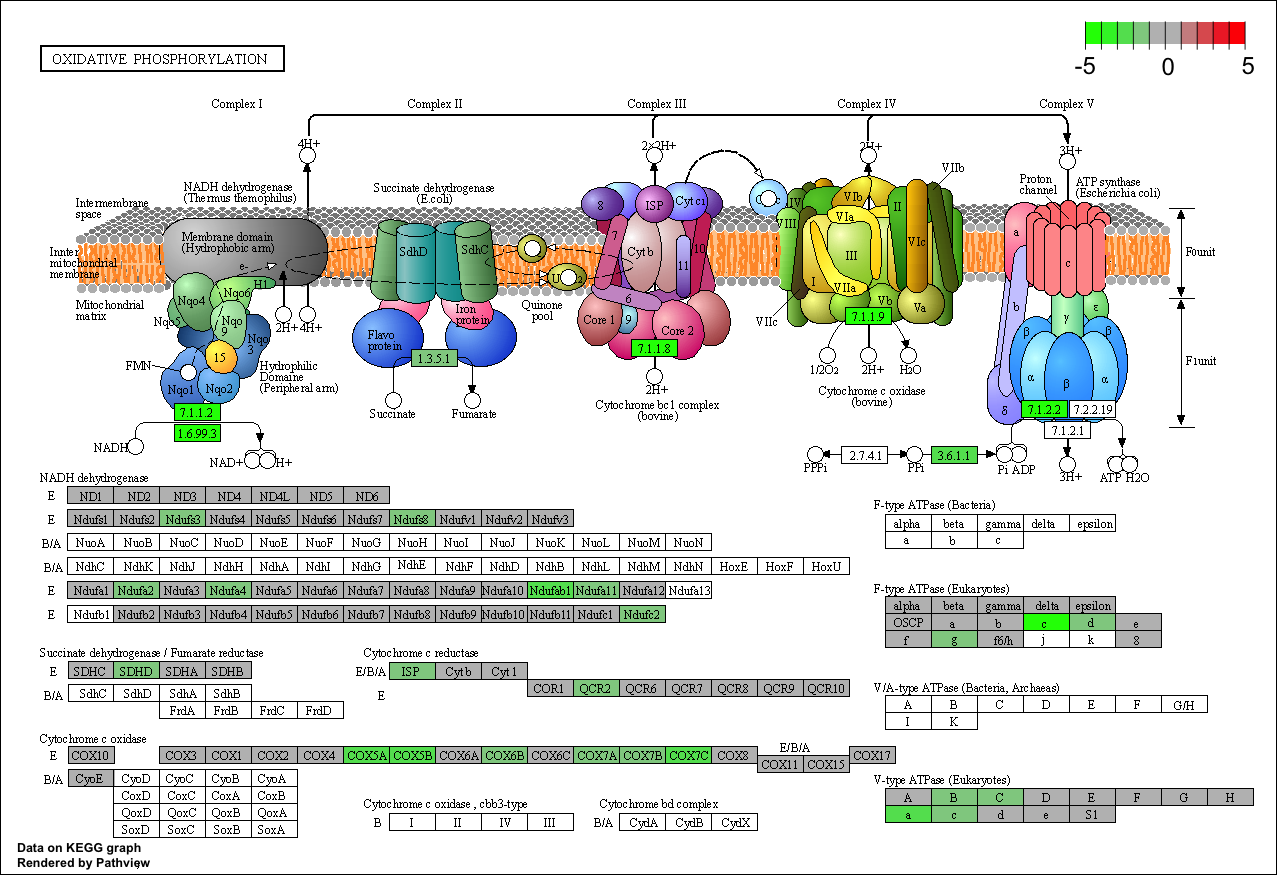
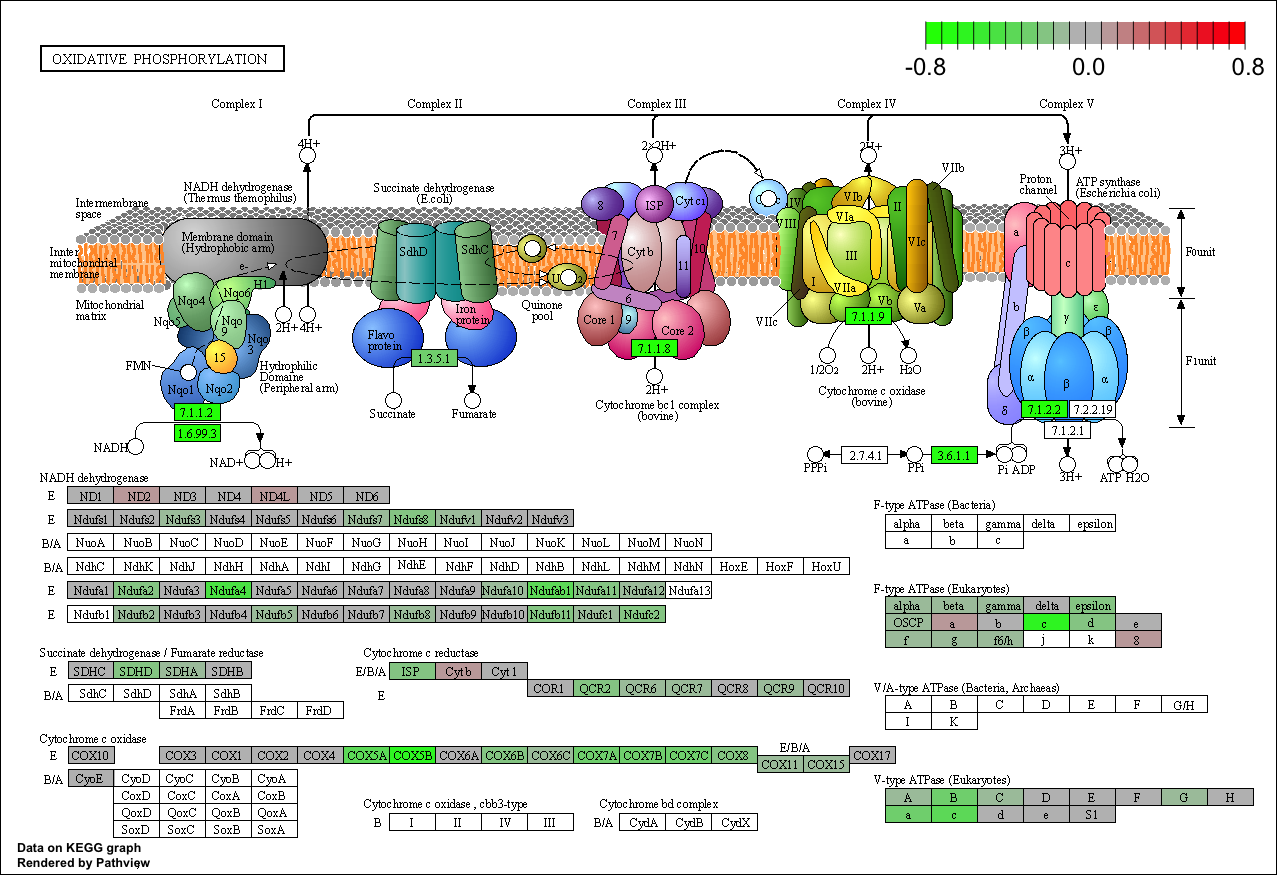
rebuild workflow

diff --git a/docs/3_GSEA.html b/docs/3_GSEA.html
@@ -388,7 +388,7 @@ div.section {
 
 <p>
 <button type="button" class="btn btn-default btn-workflowr btn-workflowr-report" data-toggle="collapse" data-target="#workflowr-report">
-<span class="glyphicon glyphicon-list" aria-hidden="true"></span> workflowr <span class="glyphicon glyphicon-ok text-success" aria-hidden="true"></span>
+<span class="glyphicon glyphicon-list" aria-hidden="true"></span> workflowr <span class="glyphicon glyphicon-exclamation-sign text-danger" aria-hidden="true"></span>
 </button>
 </p>
 <div id="workflowr-report" class="collapse">
@@ -397,7 +397,7 @@ div.section {
 <a data-toggle="tab" href="#summary">Summary</a>
 </li>
 <li>
-<a data-toggle="tab" href="#checks"> Checks <span class="glyphicon glyphicon-ok text-success" aria-hidden="true"></span> </a>
+<a data-toggle="tab" href="#checks"> Checks <span class="glyphicon glyphicon-exclamation-sign text-danger" aria-hidden="true"></span> </a>
 </li>
 <li>
 <a data-toggle="tab" href="#versions">Past versions</a>
@@ -406,10 +406,10 @@ div.section {
 <div class="tab-content">
 <div id="summary" class="tab-pane fade in active">
 <p>
-<strong>Last updated:</strong> 2020-03-04
+<strong>Last updated:</strong> 2020-03-17
 </p>
 <p>
-<strong>Checks:</strong> <span class="glyphicon glyphicon-ok text-success" aria-hidden="true"></span> 7 <span class="glyphicon glyphicon-exclamation-sign text-danger" aria-hidden="true"></span> 0
+<strong>Checks:</strong> <span class="glyphicon glyphicon-ok text-success" aria-hidden="true"></span> 6 <span class="glyphicon glyphicon-exclamation-sign text-danger" aria-hidden="true"></span> 1
 </p>
 <p>
 <strong>Knit directory:</strong> <code>20190717_Lardelli_RNASeq_Larvae/</code> <span class="glyphicon glyphicon-question-sign" aria-hidden="true" title="This is the local directory in which the code in this file was executed."> </span>
@@ -425,12 +425,12 @@ This reproducible <a href="http://rmarkdown.rstudio.com">R Markdown</a> analysis
 <div class="panel panel-default">
 <div class="panel-heading">
 <p class="panel-title">
-<a data-toggle="collapse" data-parent="#workflowr-checks" href="#strongRMarkdownfilestronguptodate"> <span class="glyphicon glyphicon-ok text-success" aria-hidden="true"></span> <strong>R Markdown file:</strong> up-to-date </a>
+<a data-toggle="collapse" data-parent="#workflowr-checks" href="#strongRMarkdownfilestronguncommittedchanges"> <span class="glyphicon glyphicon-exclamation-sign text-danger" aria-hidden="true"></span> <strong>R Markdown file:</strong> uncommitted changes </a>
 </p>
 </div>
-<div id="strongRMarkdownfilestronguptodate" class="panel-collapse collapse">
+<div id="strongRMarkdownfilestronguncommittedchanges" class="panel-collapse collapse">
 <div class="panel-body">
-<p>Great! Since the R Markdown file has been committed to the Git repository, you know the exact version of the code that produced these results.</p>
+<p>The R Markdown file has unstaged changes. To know which version of the R Markdown file created these results, you’ll want to first commit it to the Git repo. If you’re still working on the analysis, you can ignore this warning. When you’re finished, you can run <code>wflow_publish</code> to commit the R Markdown file and build the HTML.</p>
 </div>
 </div>
 </div>
@@ -497,10 +497,10 @@ This reproducible <a href="http://rmarkdown.rstudio.com">R Markdown</a> analysis
 <div class="panel panel-default">
 <div class="panel-heading">
 <p class="panel-title">
-<a data-toggle="collapse" data-parent="#workflowr-checks" href="#strongRepositoryversionstrongahrefhttpsgithubcomyangdongau20190717LardelliRNASeqLarvaetreefa3b6031ed7cbb162fd0b5e51350c02b13558953targetblankfa3b603a"> <span class="glyphicon glyphicon-ok text-success" aria-hidden="true"></span> <strong>Repository version:</strong> <a href="https://github.com/yangdongau/20190717_Lardelli_RNASeq_Larvae/tree/fa3b6031ed7cbb162fd0b5e51350c02b13558953" target="_blank">fa3b603</a> </a>
+<a data-toggle="collapse" data-parent="#workflowr-checks" href="#strongRepositoryversionstrongahrefhttpsgithubcomyangdongau20190717LardelliRNASeqLarvaetree13abd741c1bf0850a70cd6efb8e68fd50cae8f4etargetblank13abd74a"> <span class="glyphicon glyphicon-ok text-success" aria-hidden="true"></span> <strong>Repository version:</strong> <a href="https://github.com/yangdongau/20190717_Lardelli_RNASeq_Larvae/tree/13abd741c1bf0850a70cd6efb8e68fd50cae8f4e" target="_blank">13abd74</a> </a>
 </p>
 </div>
[2 lines of base64/hex data omitted]
 <div class="panel-body">
 <p>
 Great! You are using Git for version control. Tracking code development and connecting the code version to the results is critical for reproducibility. The version displayed above was the version of the Git repository at the time these results were generated. <br><br> Note that you need to be careful to ensure that all relevant files for the analysis have been committed to Git prior to generating the results (you can use <code>wflow_publish</code> or <code>wflow_git_commit</code>). workflowr only checks the R Markdown file, but you know if there are other scripts or data files that it depends on. Below is the status of the Git repository when the results were generated:
@@ -521,6 +521,9 @@ Ignored files:
     Ignored:    data/2_alignedData/.DS_Store
     Ignored:    files/
     Ignored:    output/.DS_Store
+
+Unstaged changes:
+    Modified:   analysis/3_GSEA.Rmd
 
 </code></pre>
 <p>
@@ -559,6 +562,40 @@ Message
 </tr>
 </thead>
 <tbody>
+<tr>
+<td>
+Rmd
+</td>
+<td>
+<a href="https://github.com/yangdongau/20190717_Lardelli_RNASeq_Larvae/blob/13abd741c1bf0850a70cd6efb8e68fd50cae8f4e/analysis/3_GSEA.Rmd" target="_blank">13abd74</a>
+</td>
+<td>
+yangdongau
+</td>
+<td>
+2020-03-17
+</td>
+<td>
+Use logFC replace rank statistic in pathview.
+</td>
+</tr>
+<tr>
+<td>
+html
+</td>
+<td>
+<a href="https://rawcdn.githack.com/yangdongau/20190717_Lardelli_RNASeq_Larvae/7d1a0d3bb8597a307b8de160373d78e264f5e65d/docs/3_GSEA.html" target="_blank">7d1a0d3</a>
+</td>
+<td>
+yangdongau
+</td>
+<td>
+2020-03-04
+</td>
+<td>
+test
+</td>
+</tr>
 <tr>
 <td>
 Rmd
@@ -1620,12 +1657,16 @@ write_csv(GSEAresult,here::here(&quot;output&quot;,&quot;GSEA_resulst.csv&quot;)
 keggPaths &lt;- list.files(keggDir, pattern = &quot;xml&quot;) %&gt;% 
   str_replace_all(pattern = &quot;dre([0-9]+).xml&quot;, &quot;\\1&quot;)</code></pre>
 <pre class="r"><code>pv.out &lt;- pathview(
-  gene.data = ranks,
+  gene.data = topTable %&gt;%
+    dplyr::select(c(&quot;ensembl_gene_id&quot;, &quot;logFC&quot;)) %&gt;%
+    as.data.frame() %&gt;%
+    column_to_rownames(&quot;ensembl_gene_id&quot;),
   pathway.id = keggPaths,
   species = &quot;Danio rerio&quot;,
   kegg.dir = keggDir,
   gene.idtype = &quot;ENSEMBL&quot;,
-  limit = list(gene = 5, cpd = 1)
+  limit = list(gene = 0.8, cpd = 0.5),
+  bins = list(gene = 20, cpd = 20)
 )</code></pre>
 <pre class="r"><code>keggPng &lt;- list.files(pattern = &quot;dre.+pathview.png&quot;, full.names = TRUE)
 file.rename(
@@ -1670,7 +1711,7 @@ file.rename(
  collate  en_AU.UTF-8                 
  ctype    en_AU.UTF-8                 
  tz       Australia/Adelaide          
- date     2020-03-04                  
+ date     2020-03-17                  
 
 ─ Packages ──────────────────────────────────────────────────────────────
  package       * version   date       lib source        
